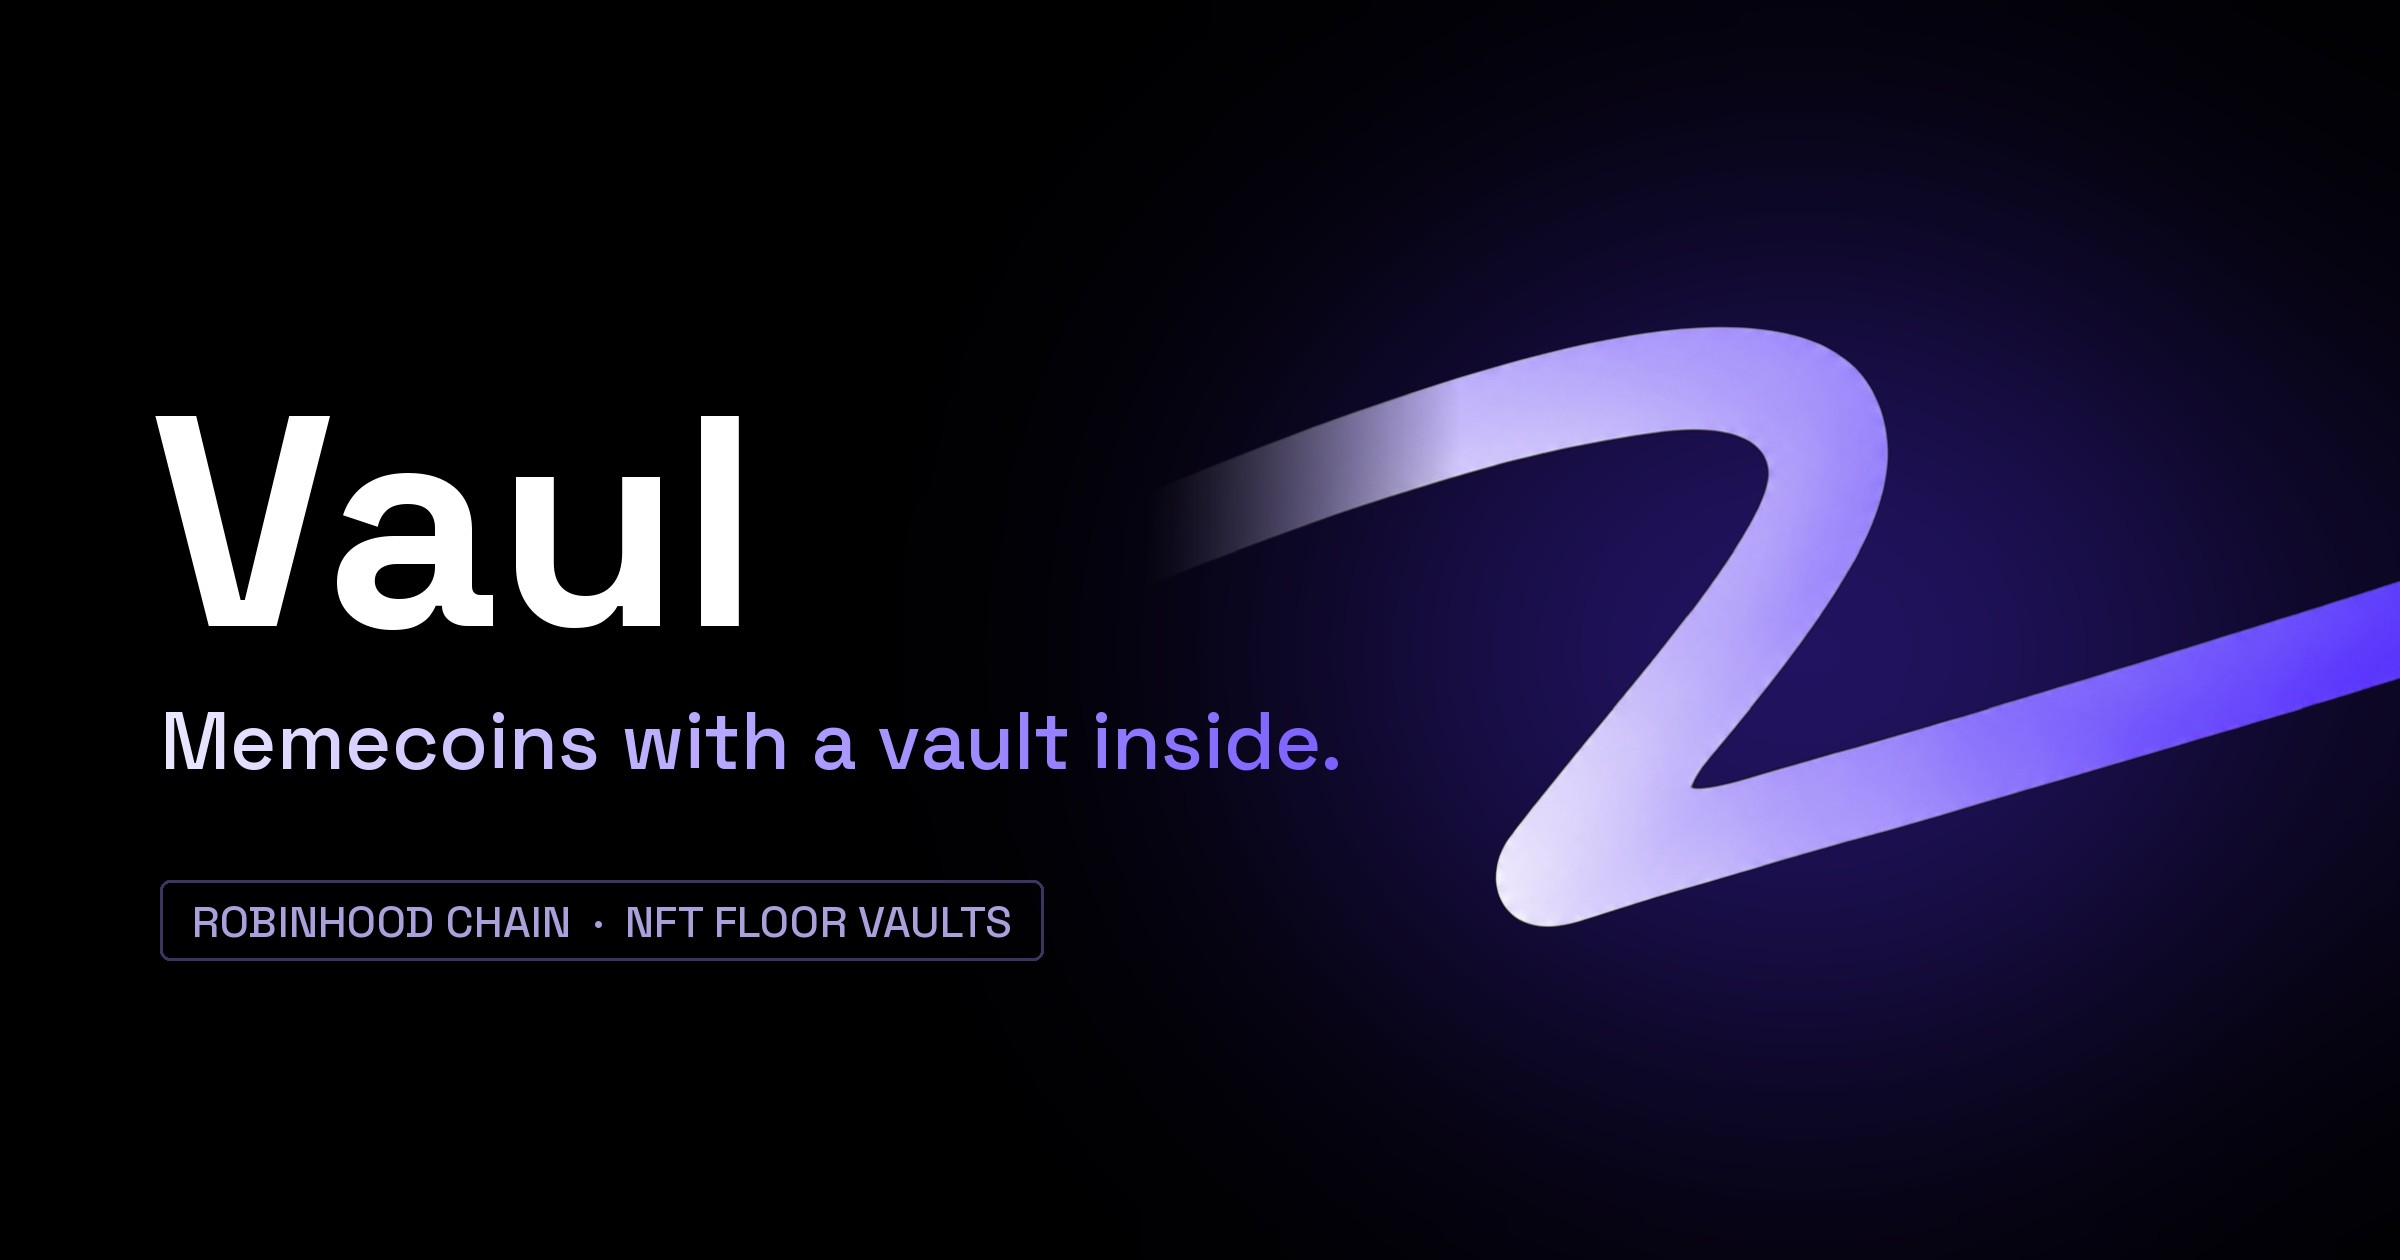
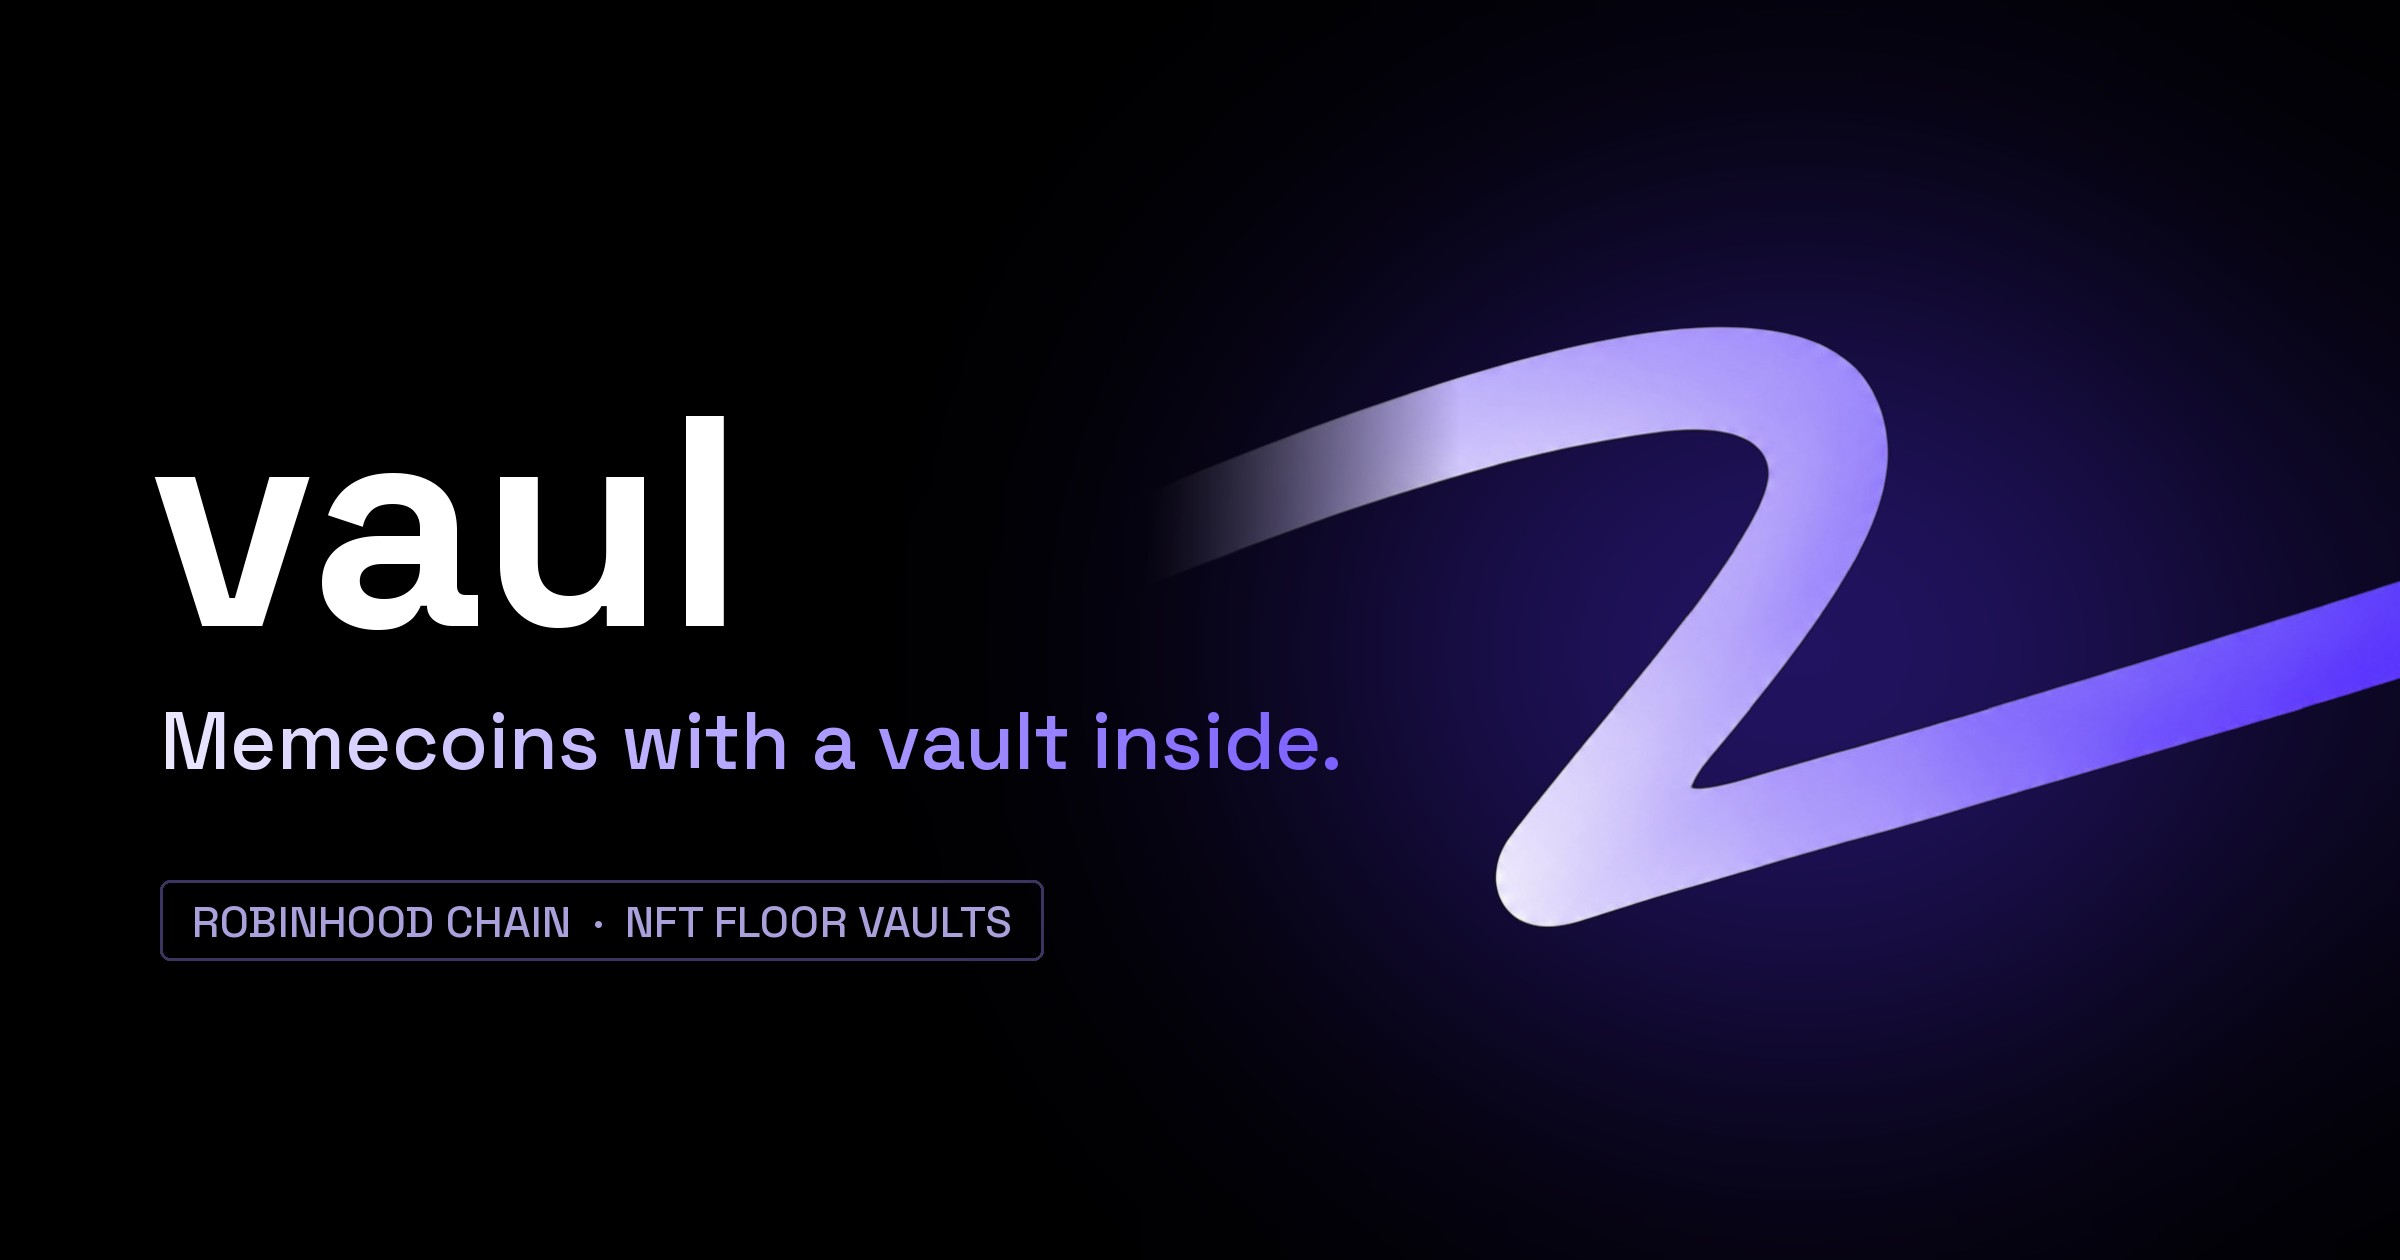
Lowercase vaul wordmark in header, footer and OG image
Claude-Session: https://claude.ai/code/session_01AnTPKRWUPG73wSjPT6J4mN

Changed region(s): [[0.0625, 0.3095, 0.3125, 0.4952]]

diff --git a/lib.js b/lib.js
@@ -411,7 +411,7 @@ export function renderChrome(active) {
     const q = active === "collections" ? new URLSearchParams(location.search).get("q") || "" : "";
     header.innerHTML = `
       <button class="burger" id="burger" aria-label="Open menu" aria-expanded="false">${ICONS.menu}</button>
-      <a href="/" class="brand" aria-label="Vaul home"><img src="assets/brand/vaul-logo.png" alt="" width="32" height="32" /><span>Vaul</span></a>
+      <a href="/" class="brand" aria-label="Vaul home"><img src="assets/brand/vaul-logo.png" alt="" width="32" height="32" /><span>vaul</span></a>
       <nav class="nav-links" id="navLinks">
         <form class="nav-search" action="collections" role="search">
           <input name="q" type="search" placeholder="Search collections" aria-label="Search collections" value="${esc(q)}" />
@@ -441,7 +441,7 @@ export function renderChrome(active) {
     footer.className = "footer";
     footer.innerHTML = `
       <div>
-        <a href="/" class="brand" aria-label="Vaul home"><img src="assets/brand/vaul-logo.png" alt="" width="32" height="32" /><span>Vaul</span></a>
+        <a href="/" class="brand" aria-label="Vaul home"><img src="assets/brand/vaul-logo.png" alt="" width="32" height="32" /><span>vaul</span></a>
         <p>Pons coins on Robinhood Chain whose creator fees buy NFT floors. Vault rules are enforced on-chain.</p>
       </div>
       <div class="foot-links">${NAV.map(([h, l]) => `<a href="${h}">${l}</a>`).join("")}</div>
